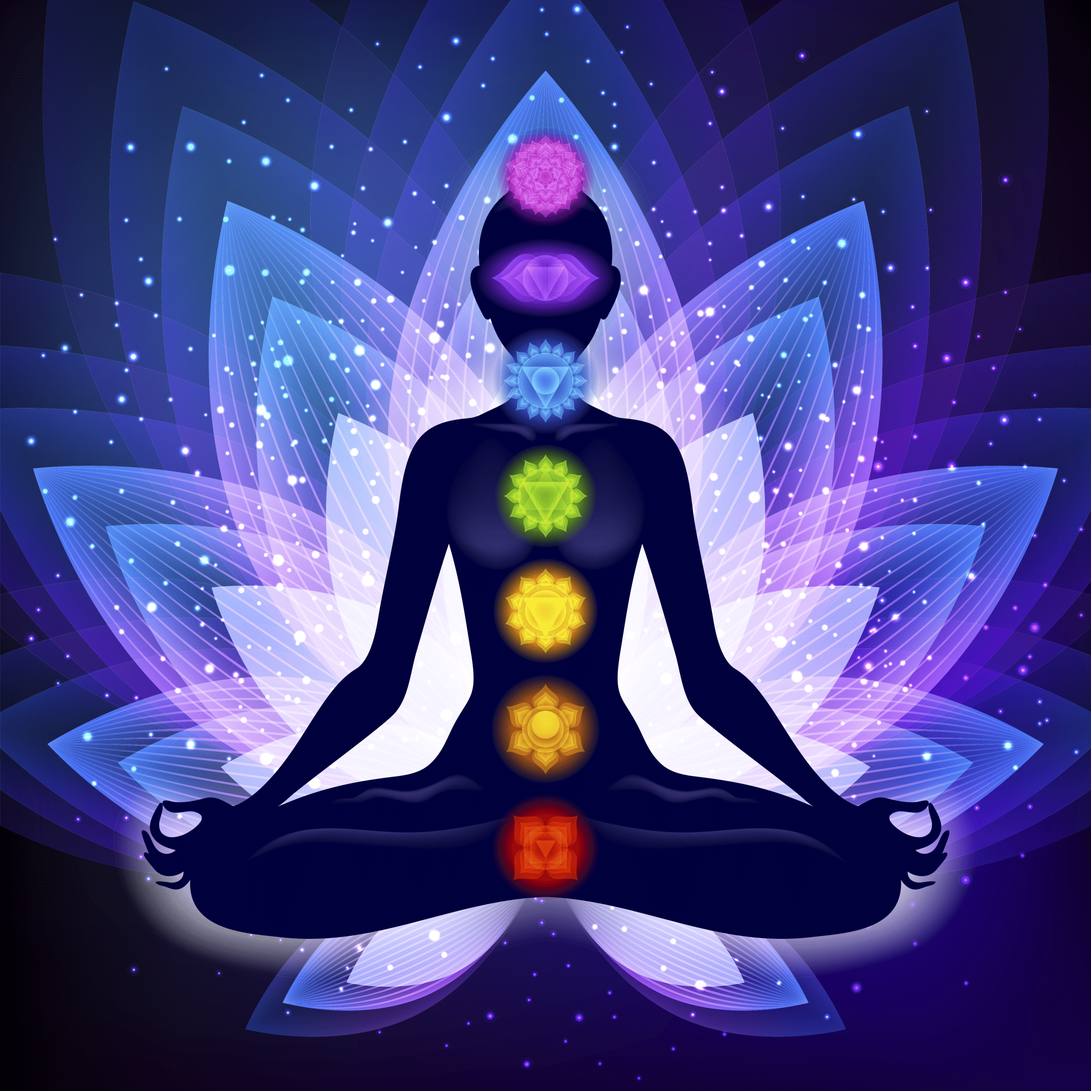
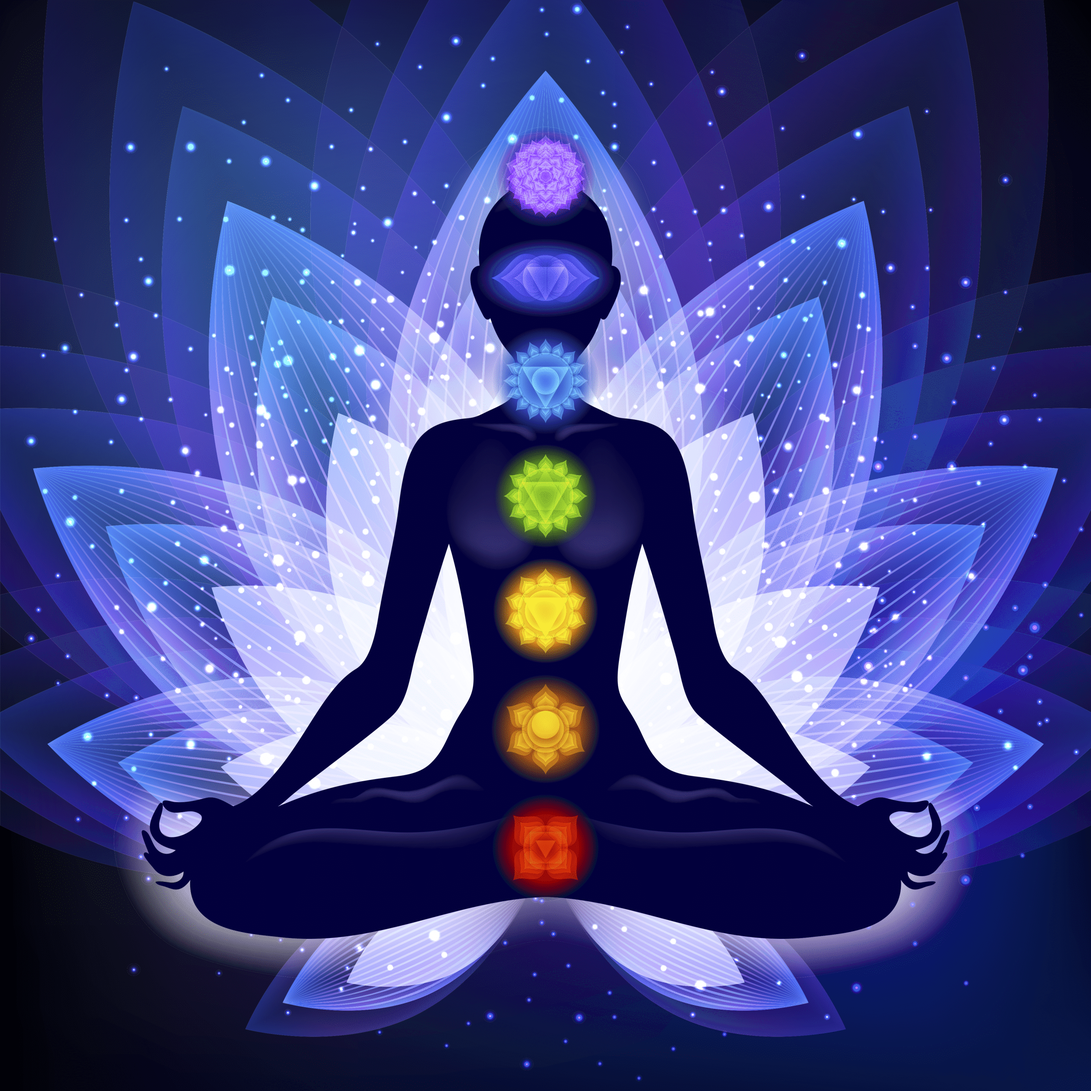
edit color

diff --git a/index.html b/index.html
@@ -7,22 +7,18 @@
     <link rel="stylesheet" href="style.css" />
     <link rel="preconnect" href="https://fonts.googleapis.com" />
     <link rel="preconnect" href="https://fonts.gstatic.com" crossorigin />
-    <link
-      href="https://fonts.googleapis.com/css2?family=Poppins:wght@300;400;600&display=swap"
-      rel="stylesheet"
-    />
   </head>
   <body>
     <div class="background-glow"></div>
     <div class="container">
       <h1>Harmonie des Chakras</h1>
-      <p class="subtitle">Site créé pour <b>Nono</b> la kawaine 💖</p>
+      <p class="subtitle">Site créé pour <b>Nono</b> la kawaiine 💖</p>
 <div class="chakra-svg-container">
     <svg id="chakra-svg"
          viewBox="0 0 1000 1461"
          preserveAspectRatio="xMidYMid meet">
 
-        <image href="https://witches-box.fr/wp-content/uploads/2021/09/shutterstock_1430190272.png"
+        <image href="images/chakra.png"
                x="0" y="0" width="1000" height="1461"
                preserveAspectRatio="xMidYMid slice" />
 

diff --git a/style.css b/style.css
@@ -5,8 +5,8 @@
   --chakra-color-solar-plexus: #ffdd4d;
   --chakra-color-heart: #77dd77;
   --chakra-color-throat: #77b5fe;
-  --chakra-color-third-eye: #8c4dff; /* Basé sur la couleur fill du SVG */
-  --chakra-color-crown: #ff77ff;
+  --chakra-color-third-eye: #4645d7; /* Basé sur la couleur fill du SVG */
+  --chakra-color-crown: #8750f6;
 }
 
 /* Classes pour appliquer les couleurs au texte */
